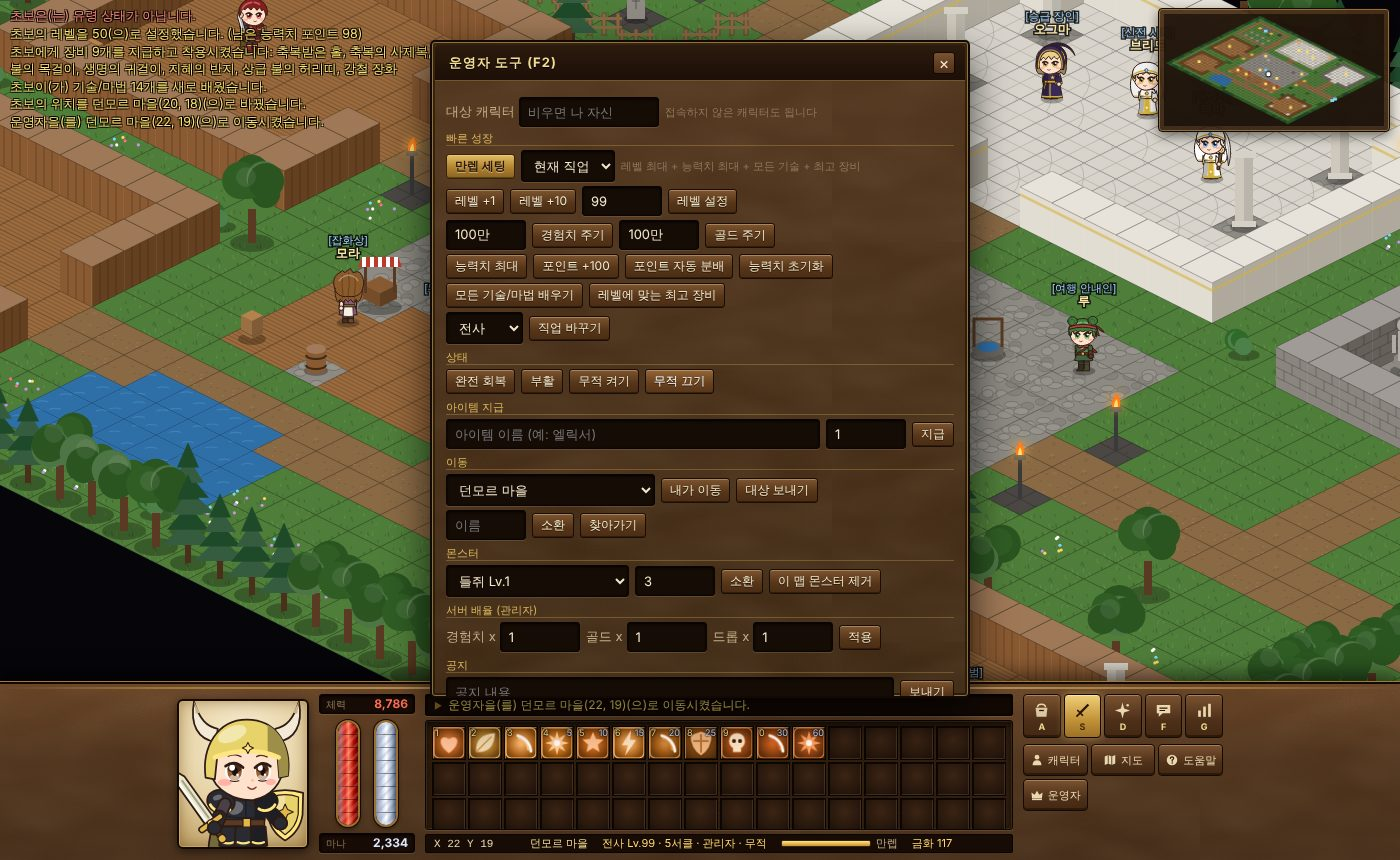
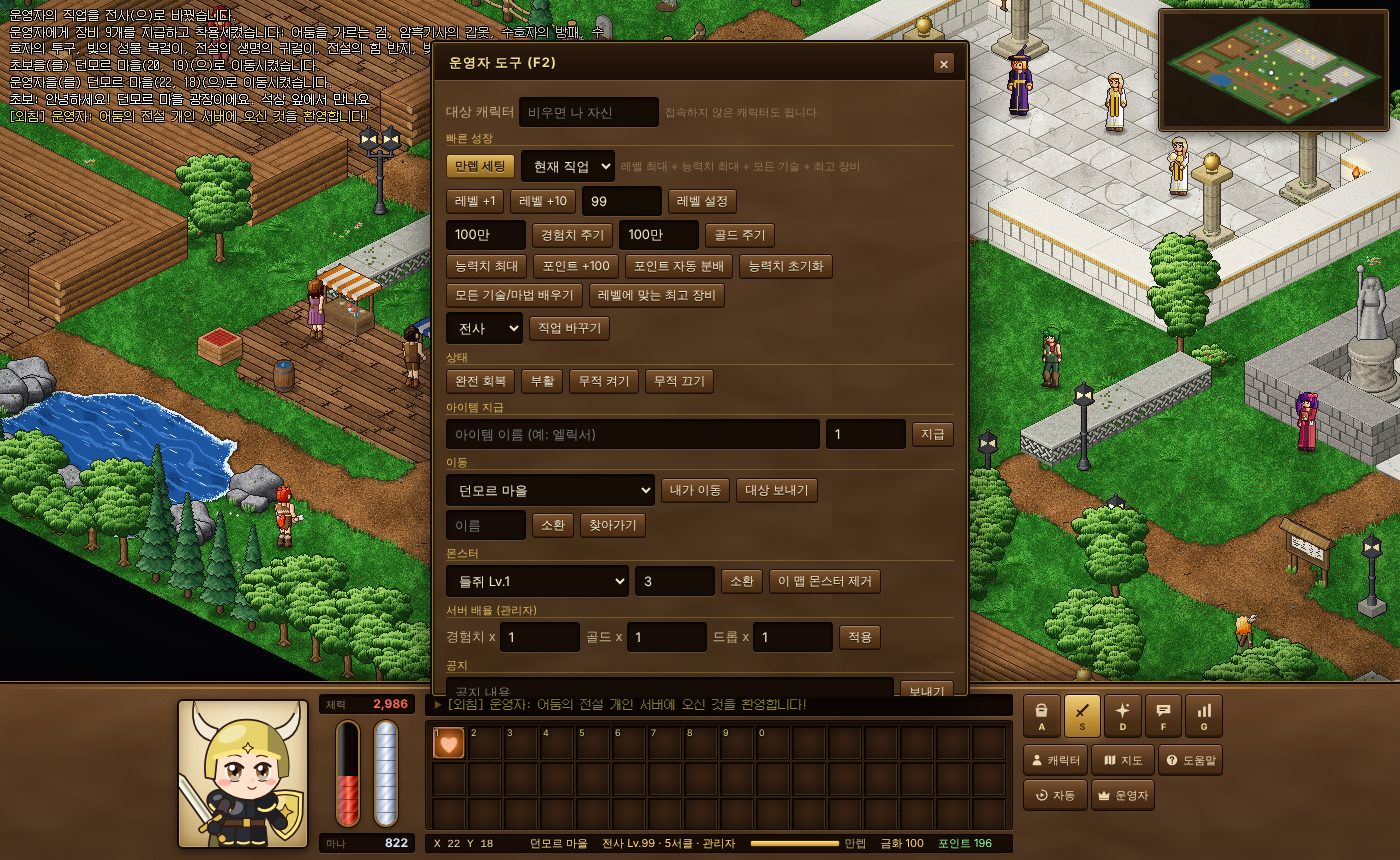
README 스크린샷을 지금 화면으로 다시 찍음 (마을 광장·숲 전투·운영자 도구·캐릭터 창), 화면 설명도 맞춤
마을은 잔디 광장·석상·말풍선·외침 줄·마우스를 올린 NPC 이름표, 전투는 숲 갈림길의 마법사와 성직자.
기능 목록의 캐릭터 설명을 맵 위 5등신 도트 캐릭터와 SD 일러스트(접속 화면·초상·캐릭터 창)로 나눔.
모두 이 게임 화면을 찍은 것입니다 (원작 그림 없음).

Claude-Session: https://claude.ai/code/session_01PuW4gKikCLvLareyKLj1Ak

diff --git a/README.md b/README.md
@@ -29,8 +29,9 @@
 **게임**
 - 아이소메트릭(쿼터뷰) 2D 화면, 타일 단위 이동, 실시간 전투
 - 클래식 어둠의 전설 배치의 화면: 아래 가죽 패널에 체력/마나 관, 메시지 줄, 소지품·기술·마법·대화·능력치 칸(A/S/D/F/G), 좌표·지역 줄
-- 큰 머리·큰 눈의 SD(치비) 캐릭터: 직업마다 다른 의상(전사 뿔 투구·갑옷·망토, 도적 두건·목도리, 마법사 고깔 두건·로브, 성직자 베일·사제복, 무도가 머리띠·도복), 남녀·머리 모양 6종·머리색 12종
-- 캐릭터·NPC 일러스트: 접속 화면 직업 일러스트, 캐릭터 창(C)의 내 캐릭터 일러스트와 장비, NPC 대화창 초상
+- 원작 풍 화면: 손으로 찍은 듯한 도트 바닥(타일 경계 없음), 나무·바위·석상·성소, 맵별 분위기(낮·흐림·저녁 숲·던전)와 가장자리 비네트, 반투명 말풍선(`이름: 대사`)과 노란 외침 줄
+- 맵 위 캐릭터는 원작처럼 약 5등신의 작은 도트 캐릭터: 직업마다 다른 의상·무기, 남녀·머리 모양·머리색. 이름은 마우스를 올리거나 대상으로 고를 때만 보임
+- 큰 머리·큰 눈의 SD(치비) 일러스트: 접속 화면 직업 일러스트, 아래 패널 초상, 캐릭터 창(C)의 내 캐릭터 일러스트와 장비, NPC 대화창 초상
 - 직업 5종 + 평민: 전사 · 도적 · 마법사 · 성직자 · 무도가 (5레벨에 길드에서 전직)
 - 서클(1~5서클), 능력치 5종(힘·지능·지혜·건강·민첩), AC, 불·물·바람·땅·빛·어둠 속성 상성
 - 기술/마법 60여 종 (4원소 마법, 치유·부활·저주·마비, 은신·암살, 기공 등), 버프/디버프
@@ -52,7 +53,7 @@
 | 접속 화면 (직업 일러스트) | 캐릭터 창 (C) |
 | --- | --- |
 | ![접속 화면](docs/screenshots/login.jpg) | ![캐릭터 창](docs/screenshots/character.jpg) |
-| 전투 (수정 동굴) | 운영자 도구 (F2) |
+| 전투 (속삭이는 숲) | 운영자 도구 (F2) |
 | ![전투](docs/screenshots/combat.jpg) | ![운영자 도구](docs/screenshots/gm-tool.jpg) |
 
 > 모든 그림(캐릭터, 일러스트, 타일, 아이콘, 화면 장식)은 코드로 직접 그린 것이며, 공식 게임의 그림 파일은 쓰지 않았습니다.
